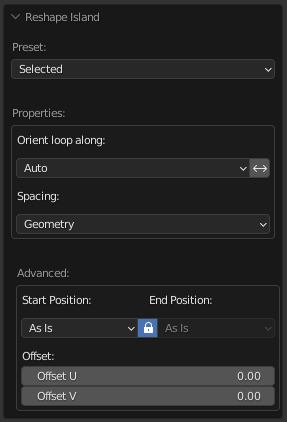
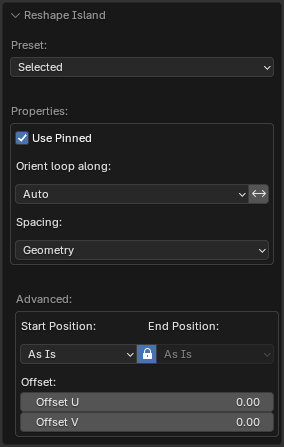
upd to 5.0.1

diff --git a/mkdocs/changelg/release_note_5.0.1.md b/mkdocs/changelg/release_note_5.0.1.md
@@ -1,0 +1,18 @@
+# Version 5.0.1
+
+## General
+
+- Hotfixes.
+- Added **Import-Export Addon Preferences** operators.
+- Added an option to the **Reshape Island** operator: **Use Pinned** — allows the operator to use user-defined pins.
+
+## Fixed
+
+- Fixed the **Quadrify** operator when handling multiple selections incorrectly in **Selection** mode.
+- Fixed hints in **Zen Touch Tool**.
+- Fixed an issue in **World Orient** when processing objects without a UV Map.
+- Fixed **Favourite Operator Command** line arguments for property arrays.
+- Fixed the **Paste** operator for **Trimsheet**.
+- Optimized the **World Orient** algorithm for very large and ultra-small objects.
+- Fixed the **Quadrify** operator when existing sharp edge tags were being removed.
+- Fixed a bug in the **Select Stretched Faces** operator when processing zero angles.

diff --git a/mkdocs/operators/reshape_island.md b/mkdocs/operators/reshape_island.md
@@ -8,7 +8,7 @@ Changes the island’s shape depending on the preset.
   
   ![](../img/screen/transform/reshape_preset_selected.png)
 
-
+- **Use Pinned** - Take into account pinned vertices. Not used in other presets.
 - **Orient loop along** - How to orient the selected loops.
     - *Auto* - Automatic finding loop orientation.
     - *U Axis* - Along the U axis.

diff --git a/mkdocs/changelg.md b/mkdocs/changelg.md
@@ -1,5 +1,6 @@
 # Changelog
 ---
+- [Version 5.0.1](changelg/release_note_5.0.1.md) *Apr 7, 2025*
 - [Version 5.0.0](changelg/release_note_5.0.0.md) *Mar 7, 2025*
 - [Version 4.5.4](changelg/release_note_4.5.4.md) *Feb 18, 2025*
 - [Version 4.5.2](changelg/release_note_4.5.2.md) *Nov 22, 2024*
